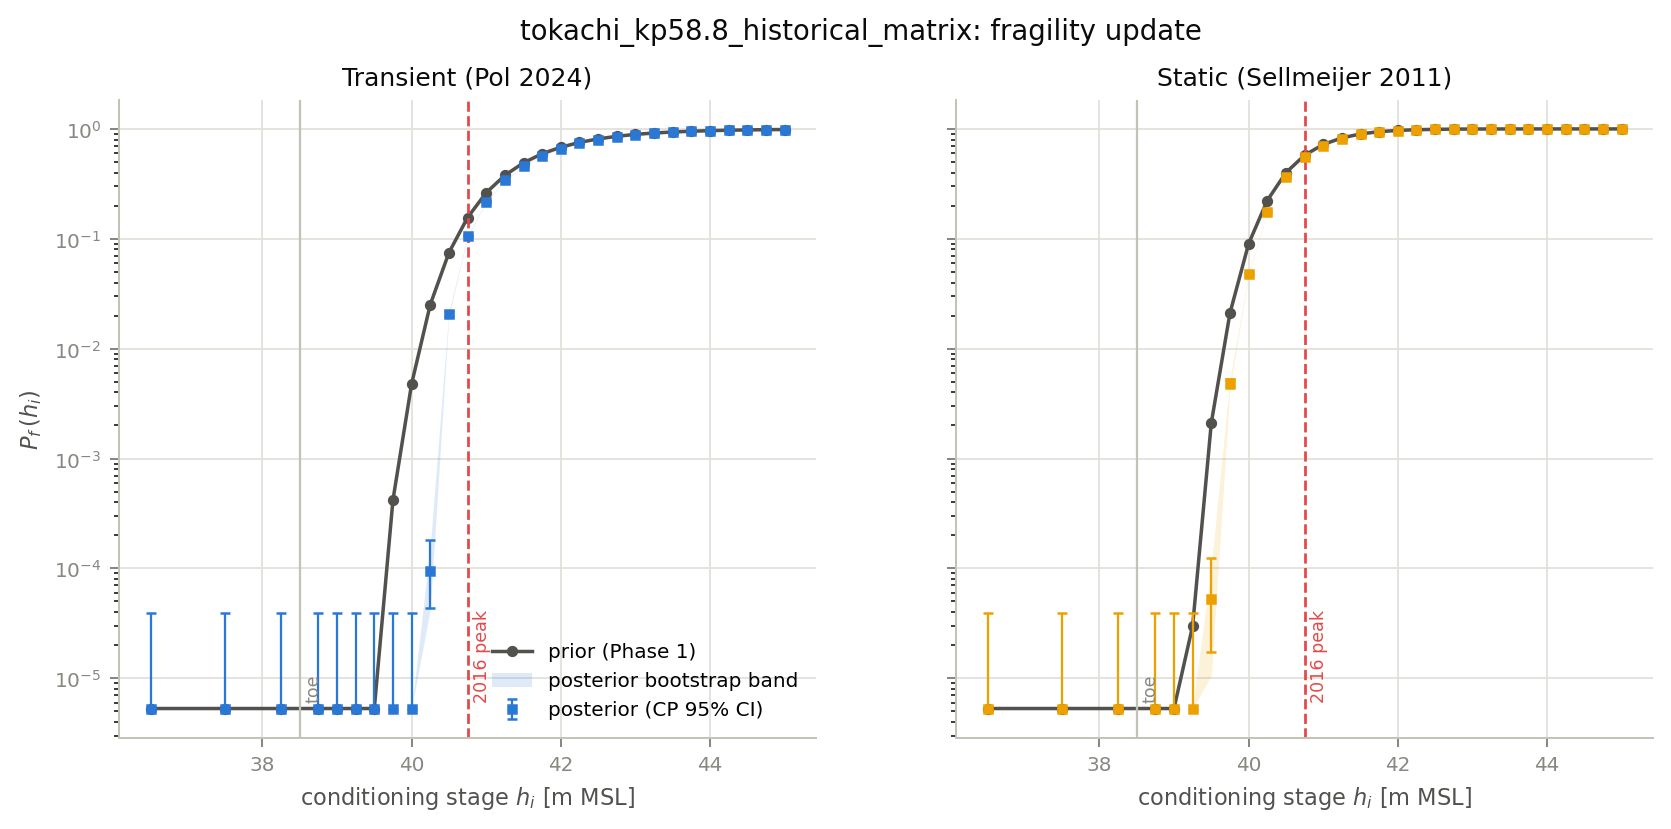
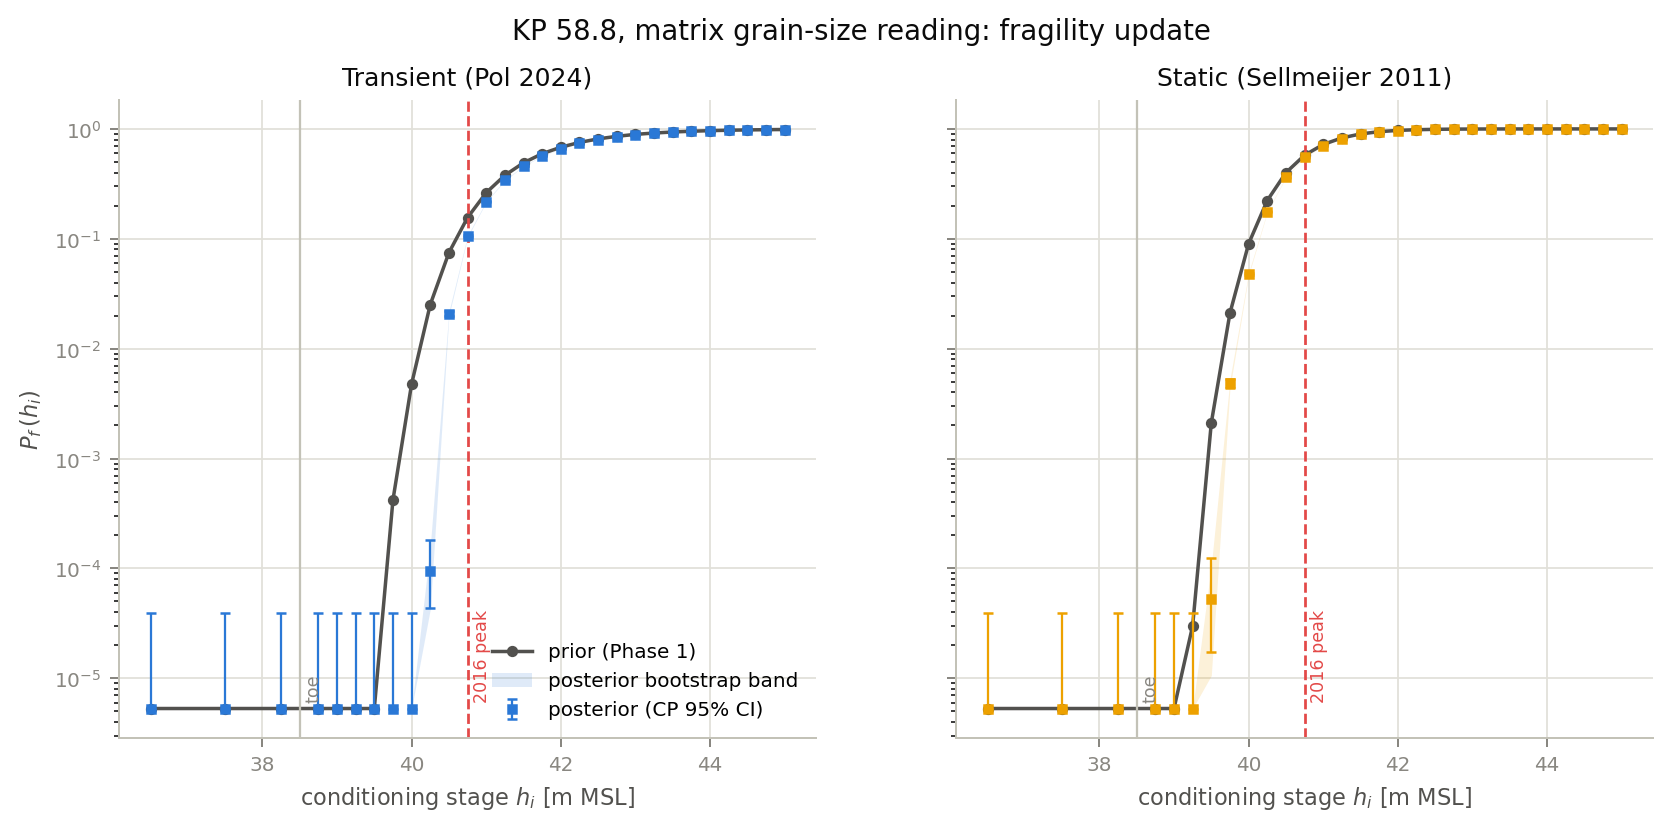
Phase 2 main-body figures: drop the run stem and the repository path
The 2026-08-04 rendered-figure pass enumerated plan section 3.2's 30 main-body
figures. The five Phase 2 figures promoted on 2026-08-02 were not in that list
and were never inspected by it, so two of them reached the thesis main body
carrying exactly what conventions section 9.3.1 forbids:

  phase2_fragility_update_kp58_8_matrix.png printed the run stem
  `tokachi_kp58.8_historical_matrix` as its suptitle;
  phase2_peak_shortcut.png printed `docs/phase2_report.md section 11.1`
  in a footnote.

The substitution is at render time, never in a record. The package gains
`pipeline.STEM_DISPLAY_NAMES` + `display_label`, mirroring
`scripts/_figstyle.py::section_label` rather than importing it (a shipped
package must not depend on scripts/), keyed on the same run stems as
PUBLICATION_FIGURES and returning an unrecognised stem unchanged. That last
property is load-bearing twice: the six non-promoted strata keep their stem in
the run-local diagnostic title, and an ADR-0046 z_toe scenario keeps its
`_ztoe_*` suffix in the title as well as finding no publication entry, so a
scenario cannot masquerade as the baseline on either axis. All six figure kinds
route through it, so one run directory carries one convention.

conventions.md 9.3.1 amended with the lesson: "the 30 figures" is a list, not a
set closed under promotion, and promoting a figure brings it into scope.

Verification:
  * all 16 persisted posteriors byte-identical by SHA-256 (redraw ran through
[…]

Changed region(s): [[0.3112, 0.0, 0.7157, 0.0603]]

diff --git a/bayesian_reliability_updating/pipeline.py b/bayesian_reliability_updating/pipeline.py
@@ -93,6 +93,44 @@ PUBLICATION_FIGURES: dict[str, dict[str, str]] = {
 }
 
 
+#: Rendered-title display names for the promoted strata, keyed on the same run
+#: stems as :data:`PUBLICATION_FIGURES`. A run stem is implementation
+#: vocabulary, which the thesis main body excludes (``docs/conventions.md``
+#: section 9.3.1), and these four figures are the only ones this package puts
+#: in the main body.
+#:
+#: **A record field is never renamed to satisfy that rule**; the substitution
+#: happens at render time, exactly as the 2026-08-04 figure pass did it for the
+#: ``scripts/`` drivers, and an unrecognised stem is returned unchanged. That
+#: last property is load-bearing twice over: the six non-promoted strata keep
+#: their stem in the run-local diagnostic title, and an ADR-0046 z_toe scenario
+#: (whose stem carries a ``_ztoe_*`` suffix) keeps its suffix in the title as
+#: well as finding no publication entry, so it can never be mistaken for the
+#: baseline on either axis.
+STEM_DISPLAY_NAMES: dict[str, str] = {
+    "tokachi_kp58.8_historical_matrix": "KP 58.8, matrix grain-size reading",
+    "tokachi_kp60.0_historical_matrix": "KP 60.0, matrix grain-size reading",
+}
+
+
+def display_label(stem: str) -> str:
+    """Human-readable title stem for a Phase 1 run, for rendered figure text.
+
+    Parameters
+    ----------
+    stem : str
+        The Phase 1 run stem the figures are named for (``paths['stem'].name``).
+
+    Returns
+    -------
+    str
+        The display name from :data:`STEM_DISPLAY_NAMES` where one exists,
+        otherwise the input unchanged, so an unrecognised or scenario-suffixed
+        stem is never silently mangled.
+    """
+    return STEM_DISPLAY_NAMES.get(stem, stem)
+
+
 def publication_path(stem: str, kind: str) -> Path | None:
     """Tracked destination for one Phase 2 figure, or None if not promoted.
 
@@ -238,6 +276,9 @@ def _figures(
     from bayesian_reliability_updating import plots
 
     stem = paths["stem"].name
+    # Rendered titles use the display name; file names, paths and the
+    # publication registry all stay keyed on the stem itself.
+    shown = display_label(stem)
     fig_dir = paths["figures"]
     # The replay datum (equals the config toe except under the ADR-0046
     # scenario, where figures must draw the shifted toe actually used).
@@ -251,7 +292,7 @@ def _figures(
                 result.param_names,
                 result.accept,
                 fig_dir / f"{stem}_marginals.png",
-                title=f"{stem}: prior vs posterior marginals",
+                title=f"{shown}: prior vs posterior marginals",
                 publication_path=publication_path(stem, "marginals"),
             )
         )
@@ -267,7 +308,7 @@ def _figures(
                 fig_dir / f"{stem}_fragility_update.png",
                 z_toe_m=z_toe,
                 event_peak_m=float(last_event["record"]["peak_m_msl"]),
-                title=f"{stem}: fragility update",
+                title=f"{shown}: fragility update",
                 publication_path=publication_path(stem, "fragility_update"),
             )
         )
@@ -277,7 +318,7 @@ def _figures(
             plots.plot_decomposition(
                 last_event["decomposition"],
                 fig_dir / f"{stem}_decomposition.png",
-                title=f"{stem}: survival-discrimination decomposition "
+                title=f"{shown}: survival-discrimination decomposition "
                 f"({last_event['event_id']})",
             )
         )
@@ -289,7 +330,7 @@ def _figures(
                 result.param_names,
                 result.accept,
                 fig_dir / f"{stem}_rejection_scatter.png",
-                title=f"{stem}: accept/reject in the k_aq x C_e plane",
+                title=f"{shown}: accept/reject in the k_aq x C_e plane",
             )
         )
     )
@@ -302,7 +343,7 @@ def _figures(
                     fig_dir / f"{stem}_{replay.record.event_id}_record.png",
                     z_toe_m=z_toe,
                     trace_level_m=trace,
-                    title=f"{stem}: observed record {replay.record.event_id}",
+                    title=f"{shown}: observed record {replay.record.event_id}",
                 )
             )
         )
@@ -315,7 +356,7 @@ def _figures(
                         arrays.t_breach,
                         replay.record,
                         fig_dir / f"{stem}_{event_id}_breach_times.png",
-                        title=f"{stem}: rejected-realization breach times "
+                        title=f"{shown}: rejected-realization breach times "
                         f"({event_id})",
                     )
                 )

diff --git a/scripts/thesis_figure_gaps.py b/scripts/thesis_figure_gaps.py
@@ -2188,8 +2188,7 @@ def figure_peak_shortcut(slice_: dict[str, Any]) -> tuple[Path, list[dict[str, A
         "that sees only the peak cannot tell the two apart.\n"
         "* small-number regime: the factor is a ratio of two small counts. "
         "Peak-only values are the prior transient curve interpolated linearly "
-        "on its raw MC points at the observed peak (docs/phase2_report.md "
-        "section 11.1).",
+        "on its raw Monte Carlo points at the observed peak.",
         fontsize=8,
         color=figstyle.MUTED,
         ha="left",

diff --git a/docs/conventions.md b/docs/conventions.md
@@ -223,6 +223,26 @@ all 30 now pass a visual re-read. The rule is **not** enforced by a test, becaus
 PNG holds no extractable text; the source-side sweep in that session's record is
 necessary and not sufficient, so a new main-body figure must be opened and read.
 
+**Amended 2026-08-05, and the gap is instructive.** That sweep enumerated *plan
+section 3.2's* 30 figures, and the five Phase 2 figures promoted two days earlier
+(2026-08-02) were not in that list, so they were never inspected. Two of them
+reached the main body carrying exactly the offences the table forbids:
+`phase2_fragility_update_kp58_8_matrix.png` printed the run stem
+`tokachi_kp58.8_historical_matrix` as its suptitle, and `phase2_peak_shortcut.png`
+printed the repository path `docs/phase2_report.md section 11.1` in a footnote.
+Both are fixed. **The lesson is that "the 30 figures" is a list, not a set closed
+under promotion**: promoting a figure into the main body brings it into scope, and
+the same sentence already says so for appendix figures.
+
+The package-side substitution mirrors `section_label` rather than importing it, since
+`bayesian_reliability_updating` must not depend on `scripts/`:
+`pipeline.STEM_DISPLAY_NAMES` plus `pipeline.display_label`, keyed on the same run
+stems as `PUBLICATION_FIGURES`, with **an unrecognised stem returned unchanged**.
+That last property is load-bearing twice: the six non-promoted strata keep their
+stem in the run-local diagnostic title, and an ADR-0046 `z_toe` scenario (whose stem
+carries a `_ztoe_*` suffix) keeps the suffix in its title as well as finding no
+publication entry, so a scenario cannot be mistaken for the baseline on either axis.
+
 **Appendix figures are out of scope** and deliberately still carry these items:
 `adr0031-tail-lhs-vs-crude*.png` (em dash, `fm5`), `epistemic_knobs_mp_ztoe.png`,
 `stage6_6_heq_*.png` and `adr0040_tilted_is_validation.png` (ADR numbers), and
